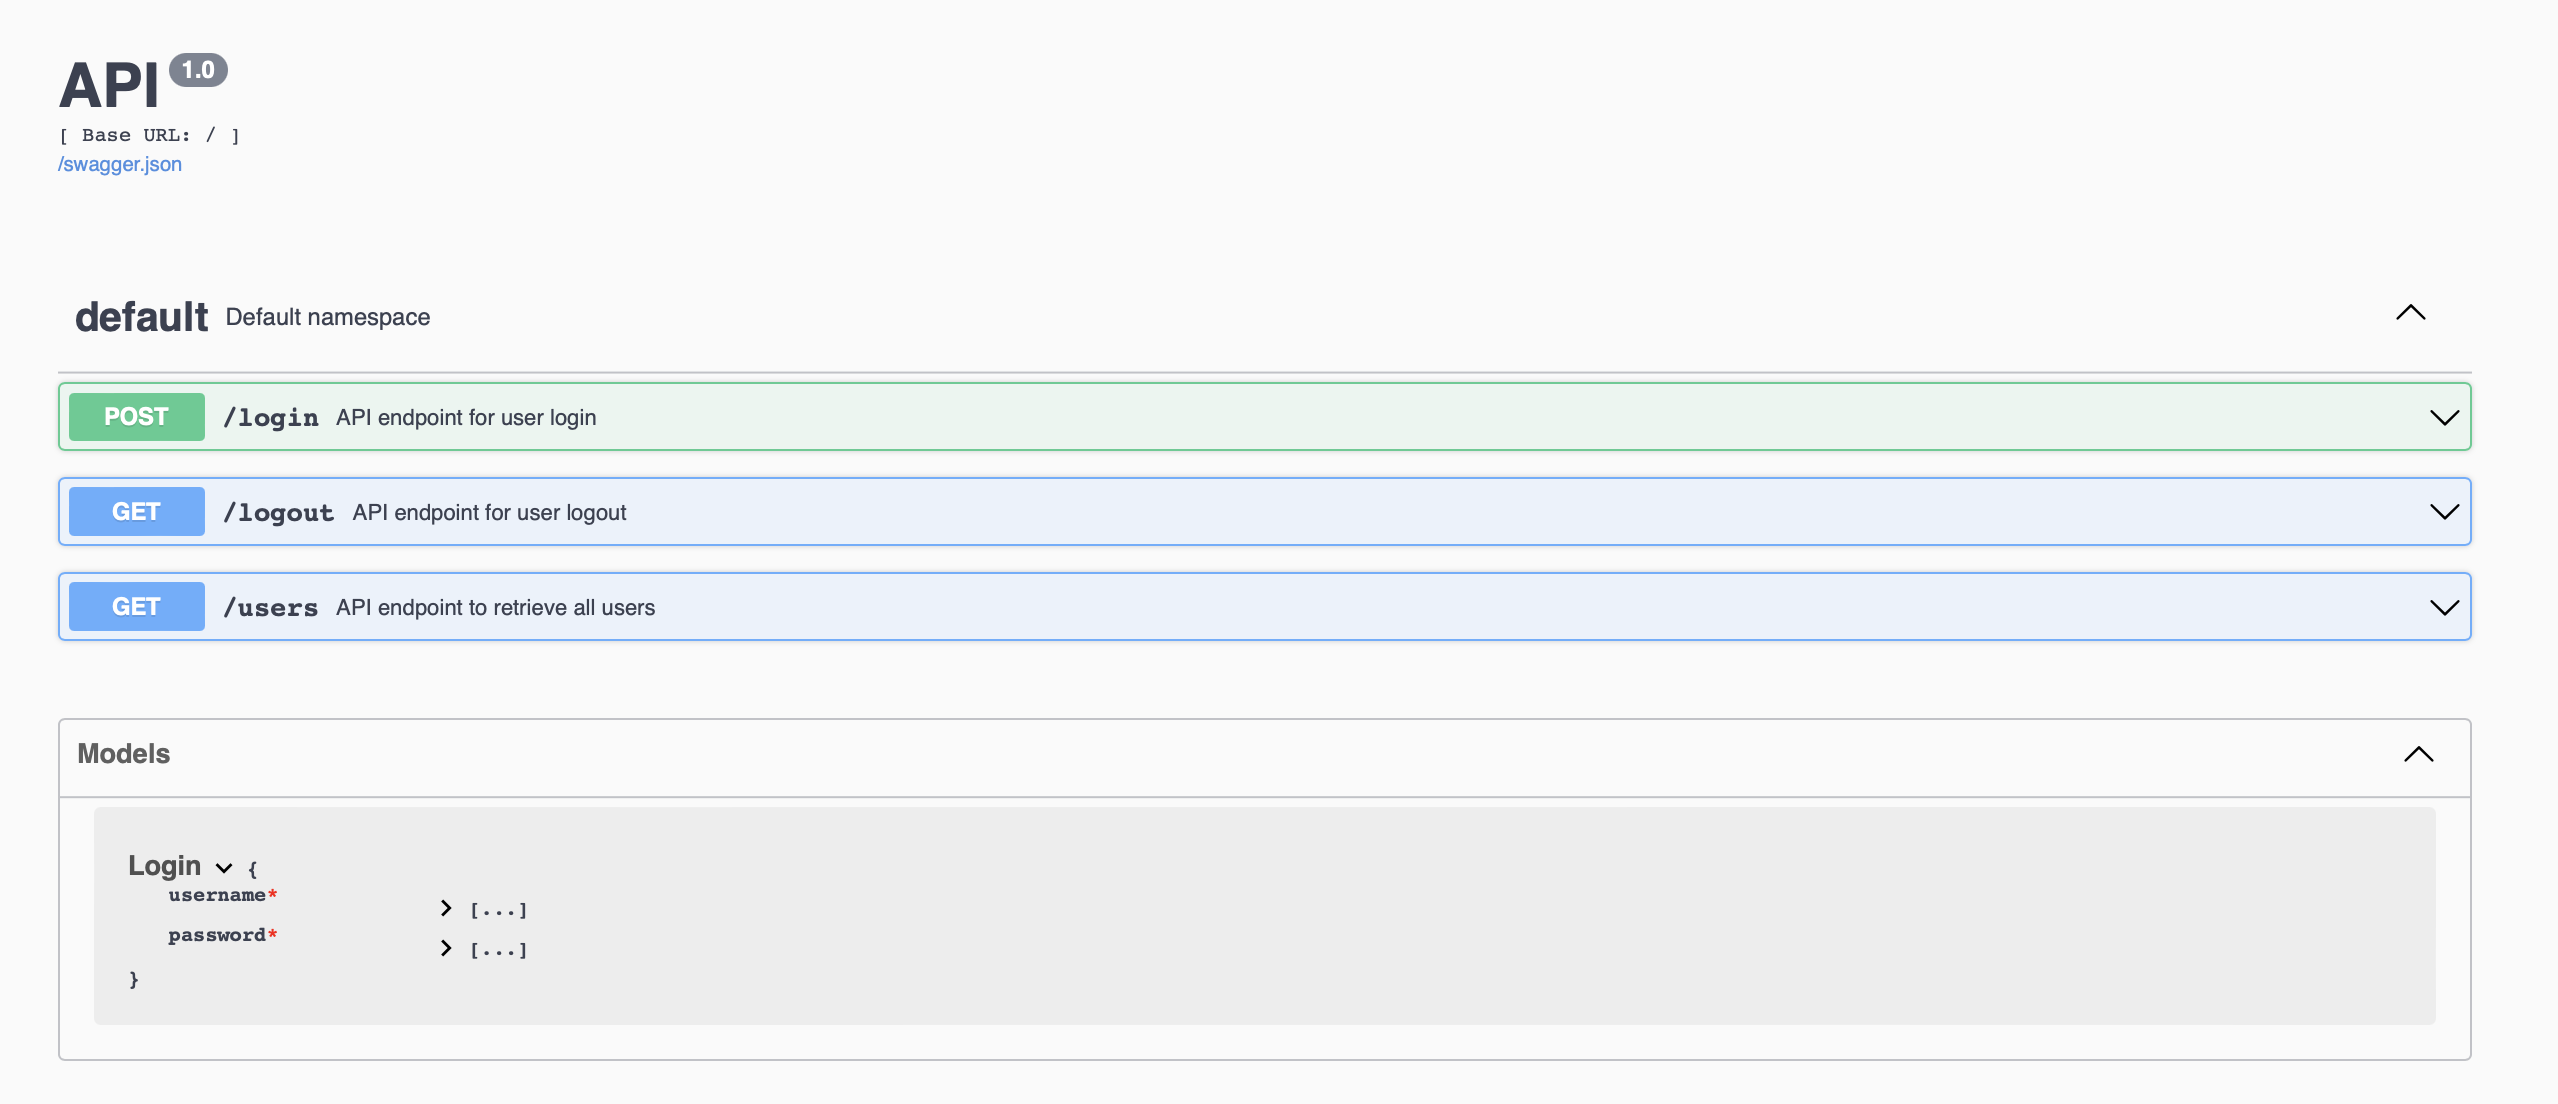
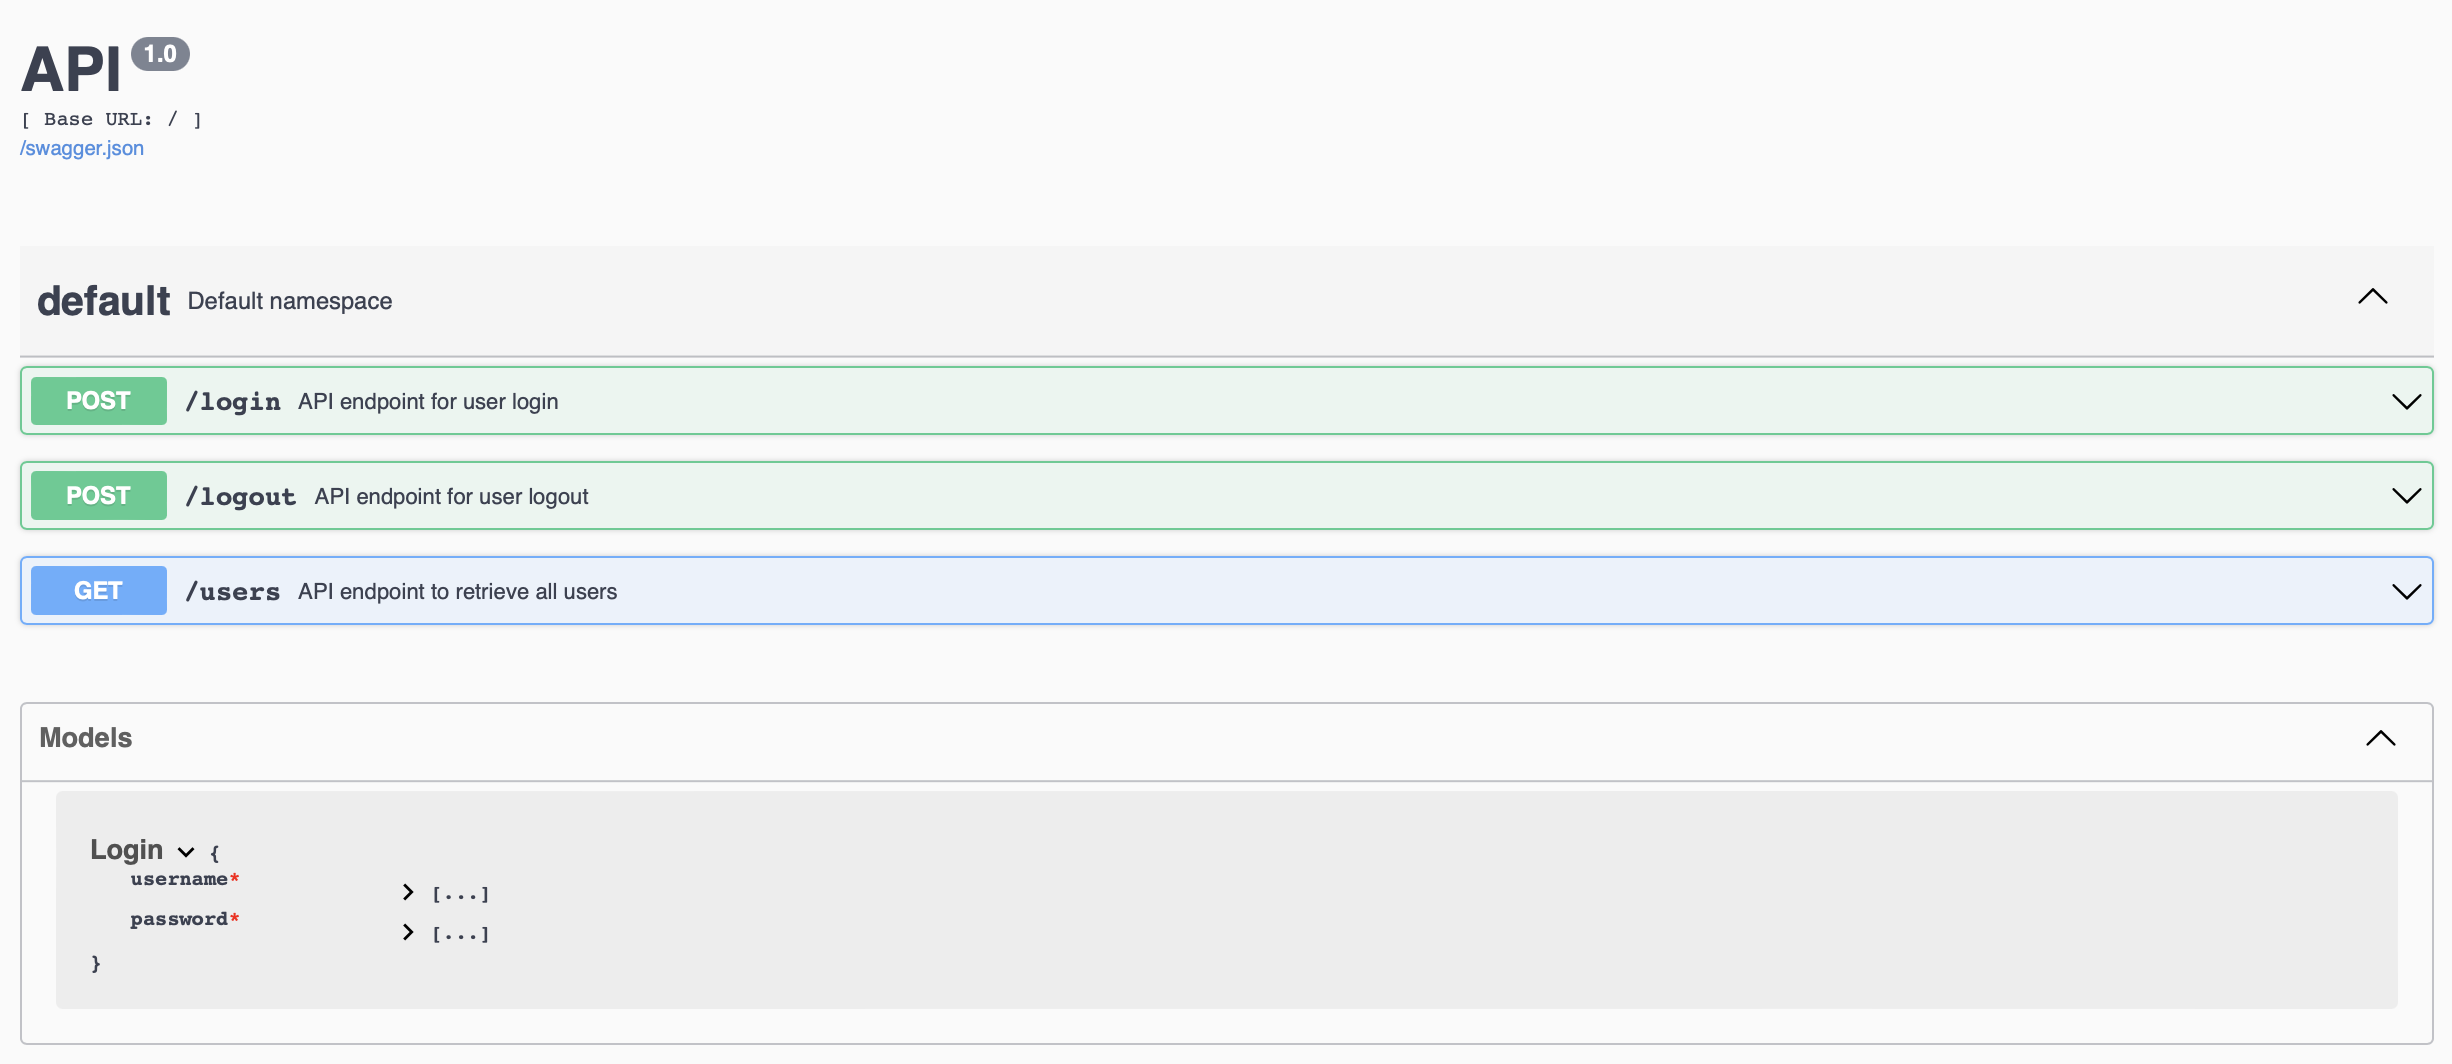
post at logout

diff --git a/flask/app/views.py b/flask/app/views.py
@@ -95,12 +95,11 @@ class Login(Resource):
                 return jsonify({"message": "Email not verified"}), 401
         return jsonify({"login": False, "message": "Invalid username or password"}), 401
 
-
-@api.route("/logout")
+@api.route("/logout", methods=["POST"])
 class Logout(Resource):
     @cross_origin(origin="*", headers=["Content-Type", "Authorization"])
     @jwt_required()
-    def get(self):
+    def post(self):
         """
         API endpoint for user logout.
 
